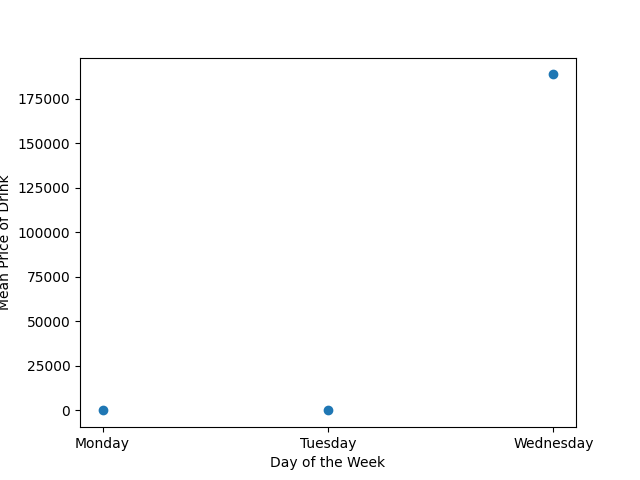
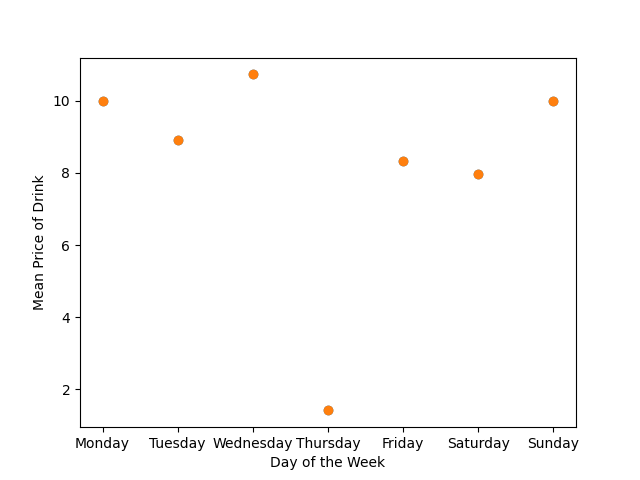
plot fixed

diff --git a/website/templates/index.html b/website/templates/index.html
@@ -23,7 +23,7 @@
 
         {% for sales in salesfigures_list %}
         <div>
-            <p>Sale ID: {{sales.id }} | Drinks Sold:{{ sales.drinks_sold }} | Income: £{{ sales.money_made }} | Mean: {{ sales.mean }}</p>
+            <p>Sale ID: {{sales.id }} | Drinks Sold:{{ sales.drinks_sold }} | Income: £{{ sales.money_made }} | Mean: £{{ sales.mean }}</p>
             <hr>
         </div>
         {% endfor %}

diff --git a/website/views.py b/website/views.py
@@ -37,8 +37,8 @@ def generate():
     return send_file('../sales_figures.xlsx')
 
 def graph_generate():
-    days = ["Monday", "Tuesday", "Wednesday"]
-    means = Salesfigures.query.filter(Salesfigures.mean).limit(3).all()
+    days = ["Monday", "Tuesday", "Wednesday", "Thursday", "Friday", "Saturday", "Sunday"]
+    means = Salesfigures.query.filter(Salesfigures.mean).limit(7).all()
     means = [(mean.mean) for mean in means]
     print(means)
 
